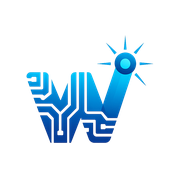
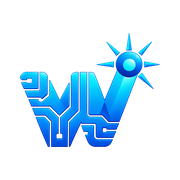
Changes

Changed region(s): [[0.1111, 0.1667, 0.8889, 0.8333]]

diff --git a/css/styles.css b/css/styles.css
@@ -1449,7 +1449,6 @@ textarea:focus {
   height: 46px;
   object-fit: contain;
   display: block;
-  filter: drop-shadow(0 0 1px rgba(255, 255, 255, 0.6)) drop-shadow(0 2px 10px rgba(31, 200, 230, 0.45));
 }
 .brand .bt {
   display: flex;
@@ -1466,13 +1465,18 @@ textarea:focus {
   margin-top: 3px;
 }
 .wh .av {
-  background: transparent;
+  background: #fff;
+  border-radius: 50%;
+  display: grid;
+  place-items: center;
+  width: 42px;
+  height: 42px;
+  flex: none;
 }
 .wh .av img {
-  width: 40px;
-  height: 34px;
+  width: 30px;
+  height: 26px;
   object-fit: contain;
-  filter: drop-shadow(0 0 1px #fff) drop-shadow(0 0 4px rgba(255, 255, 255, 0.7));
 }
 .fl {
   display: flex;
@@ -1480,14 +1484,9 @@ textarea:focus {
   gap: 14px;
 }
 .fl img {
-  width: 58px;
-  height: 58px;
+  width: 72px;
+  height: 62px;
   object-fit: contain;
-}
-@media (prefers-color-scheme: dark) {
-  .fl img {
-    filter: drop-shadow(0 0 1px rgba(255, 255, 255, 0.6)) drop-shadow(0 0 10px rgba(80, 170, 255, 0.4));
-  }
 }
 .btn.main {
   background: linear-gradient(135deg, #3be0ff, #1a8dff);
@@ -1537,23 +1536,7 @@ html.ns .intro {
   width: 210px;
   opacity: 0;
   transform: scale(0.85);
-  filter: drop-shadow(0 0 1px rgba(255, 255, 255, 0.7));
   animation: iin 0.9s cubic-bezier(0.2, 0.8, 0.2, 1) 0.2s forwards;
-}
-/* soft round light behind the logo (a radial fade, so it has no visible edges) */
-.intro::before {
-  content: "";
-  position: absolute;
-  left: 50%;
-  top: calc(50% - 20px);
-  width: 640px;
-  height: 640px;
-  margin: -320px 0 0 -320px;
-  border-radius: 50%;
-  background: radial-gradient(circle, rgba(31, 200, 230, 0.16), rgba(31, 200, 230, 0.05) 45%, transparent 70%);
-  opacity: 0;
-  transform: scale(0.6);
-  animation: iin 1.2s ease 0.1s forwards;
 }
 .intro p {
   grid-row: 2;
